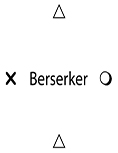
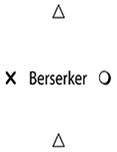
Cambiada la resolucion

diff --git a/src/states/menu.js b/src/states/menu.js
@@ -37,13 +37,13 @@ class menu extends Phaser.Scene {
         var makebutton = new makeButton();
 
         //Botón de créditos
-        var credits_button = makebutton.setButton(this, 640, 440, 'Bbutton', B.credits[game.language], 'creditsScene');
+        var credits_button = makebutton.setButton(this, 800, 440, 'Bbutton', B.credits[game.language], 'creditsScene');
 
         //Botón de ajustes
         makebutton.setButton(this, 180, 400, 'Sbutton', B.settings[game.language], 'settingsScene', null, volumen);
 
         //Botón jugar
-        var play_button = makebutton.setButton(this, 640, 280, 'Bbutton', B.play[game.language], 'none');
+        var play_button = makebutton.setButton(this, 800, 280, 'Bbutton', B.play[game.language], 'none');
 
         var that = this;
         play_button.on('pointerdown', function () {
@@ -54,9 +54,9 @@ class menu extends Phaser.Scene {
             //Imagen y botones de selección de modo de juego
             that.add.image(640, 360, 'mode').setOrigin(0.5, 0.5);
             that.add.text(640, 150, B.gamemode[game.language], { fontFamily: '"Roboto Condensed"', fontSize: '36px', color: 'white' }).setOrigin(0.5);
-            var mode1 = makebutton.setButton(that, 640, 250, 'Bbutton', B.mode1[game.language], 'mode');
-            var mode2 = makebutton.setButton(that, 640, 350, 'Bbutton', B.mode2[game.language], 'mode');
-            var mode3 = makebutton.setButton(that, 640, 450, 'Bbutton', B.mode3[game.language], 'mode');
+            var mode1 = makebutton.setButton(that, 800, 250, 'Bbutton', B.mode1[game.language], 'mode');
+            var mode2 = makebutton.setButton(that, 800, 350, 'Bbutton', B.mode2[game.language], 'mode');
+            var mode3 = makebutton.setButton(that, 800, 450, 'Bbutton', B.mode3[game.language], 'mode');
 
             mode1.setFrame(0);
 

diff --git a/src/states/partida.js b/src/states/partida.js
@@ -193,7 +193,7 @@ class partida extends Phaser.Scene {
                                         
                                     for (var z = 0; z < 8; z++) {
                                         mano1[z].removeInteractive();
-                                        if (mano2[z].x < 463 || mano2[z].x > 935 || mano2[z].y < 130.5 || mano2[z].y > 742.5) {
+                                        if (mano2[z].x < 472 || mano2[z].x > 944 || mano2[z].y < 220.5 || mano2[z].y > 832.5) {
                                             mano2[z].setInteractive();
                                         }
                                     }
@@ -284,7 +284,7 @@ class partida extends Phaser.Scene {
       
                                     for (var z = 0; z < 8; z++) {
                                         mano2[z].removeInteractive();
-                                        if (mano1[z].x < 463 || mano1[z].x > 935 || mano1[z].y < 130.5 || mano1[z].y > 742.5) {
+                                        if (mano1[z].x < 472 || mano1[z].x > 944 || mano1[z].y < 220.5 || mano1[z].y > 832.5) {
                                             mano1[z].setInteractive();
                                         }
                                     }

diff --git a/src/objects/tablero.js b/src/objects/tablero.js
@@ -1,7 +1,7 @@
 class Tablero extends Phaser.GameObjects.Sprite{
     constructor(scene, alto, ancho){
-        var x = 640;
-        var y = 360;
+        var x = 800;
+        var y = 450;
         super(scene, x, y, 'tablero');
 
         var i = 0;
@@ -21,8 +21,8 @@ class Tablero extends Phaser.GameObjects.Sprite{
             this.matrizCeldas[i] = new Array();
             for(var j = 0; j < this.alto; j++){
                 this.matrizCeldas[i][j] = new Celda(scene);
-                this.matrizCeldas[i][j].setX(463 + 118*i);
-                this.matrizCeldas[i][j].setY(130.5 + 153*j);
+                this.matrizCeldas[i][j].setX(623 + 118*i);
+                this.matrizCeldas[i][j].setY(220.5 + 153*j);
                 this.matrizCeldas[i][j].pintarCelda(scene);                
             }
         }

diff --git a/src/objects/jugador.js b/src/objects/jugador.js
@@ -3,8 +3,8 @@ class Jugador {
 
 	constructor(scene, cont, own, ndeck) {
 		var i = 0;
-		var n = 100;
-		var m = 100;
+		var n = 125;
+		var m = 125;
 	
 		//this.cartaSeleccionada = -1;
 
@@ -17,9 +17,9 @@ class Jugador {
 		}
 
 		if (cont == 1) {
-			this.setManoPos(100,100);
+			this.setManoPos(250, 220);
 		} else if (cont == 2) {
-			this.setManoPos(980, 100);
+			this.setManoPos(1225, 220);
 		}
 	}
 

diff --git a/src/states/preload.js b/src/states/preload.js
@@ -4,7 +4,7 @@ class preload extends Phaser.Scene {
     }
 
     preload() {
-        this.load.image('fondo', 'assets/fondo.jpg');
+        this.load.image('fondo', 'assets/fondo2.jpg');
         this.load.image('carta', 'assets/carta.jpg');
         //this.load.image('dorsocarta', 'assets/dorsocarta.jpg');
         //this.load.image('dorsocarta2', 'assets/dorsocarta2.jpg');

diff --git a/src/index.js b/src/index.js
@@ -1,7 +1,7 @@
 var config = {
 	type: Phaser.WEBGL,
-	width: 1280,
-	height: 720,
+	width: 1600,
+	height: 900,
 	scale: {
 		mode: Phaser.Scale.FIT,
 		autoCenter: Phaser.Scale.CENTER_BOTH
